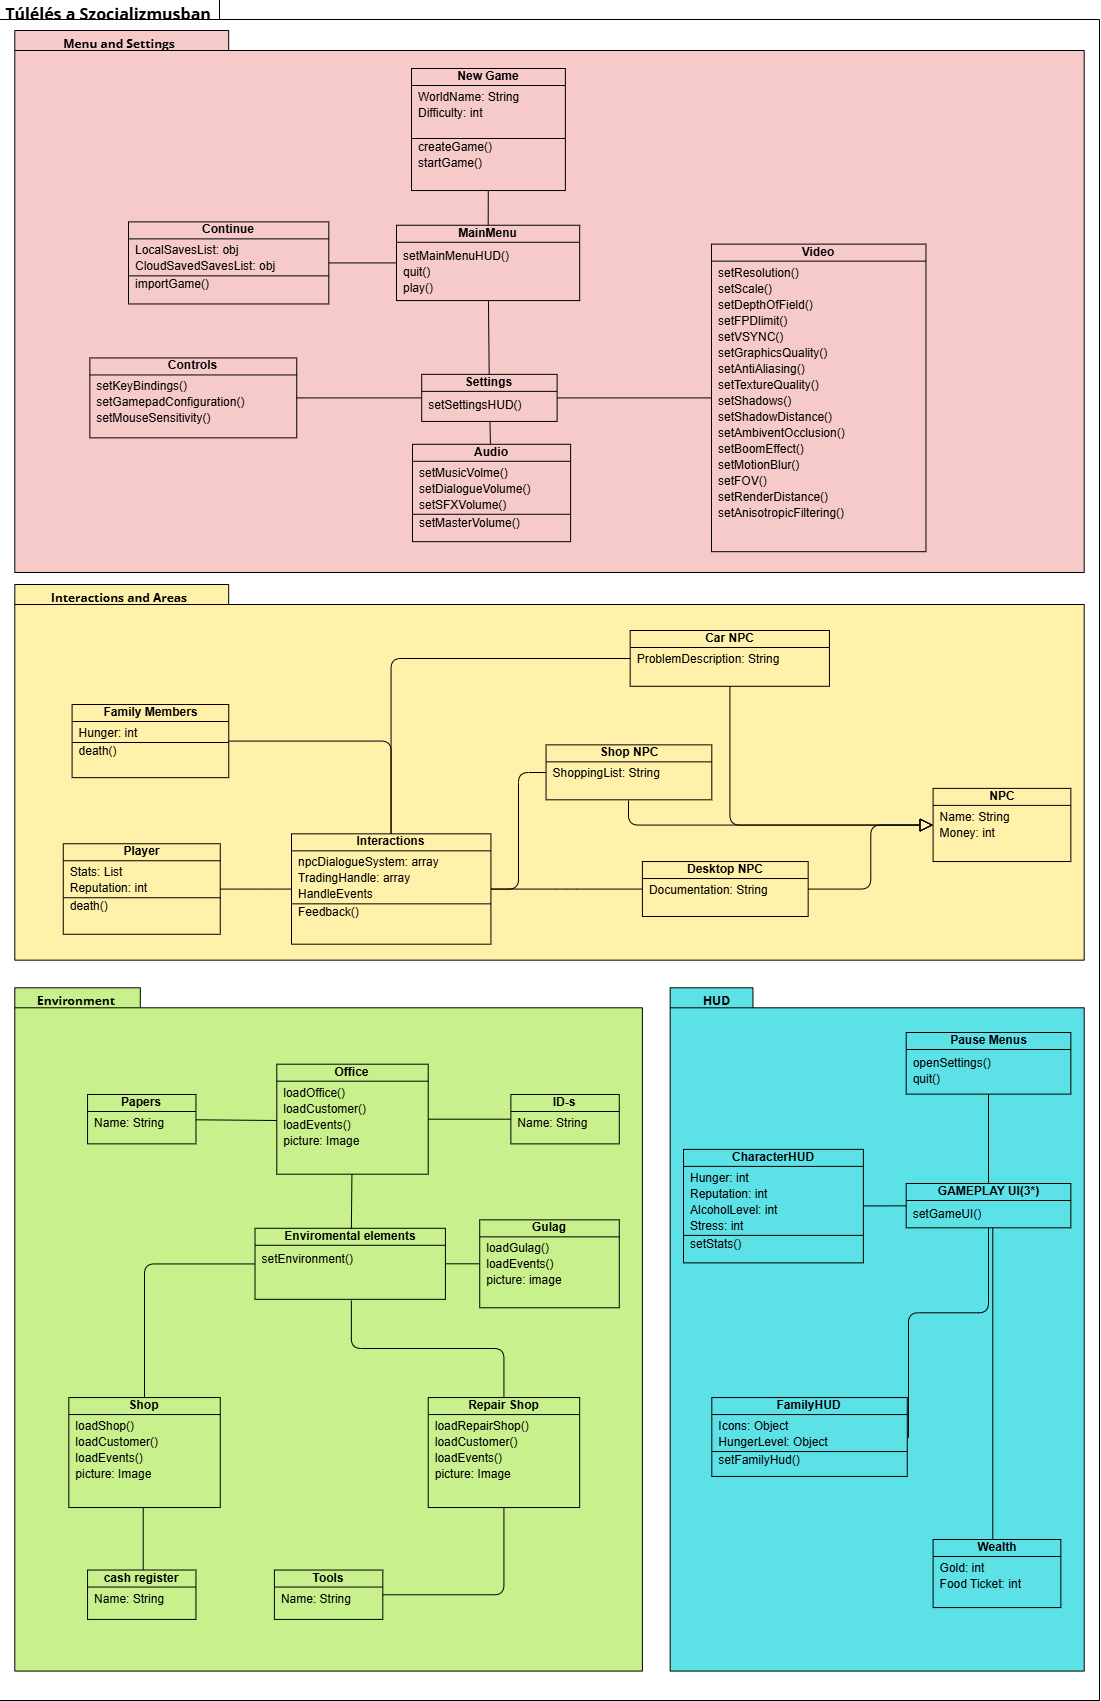
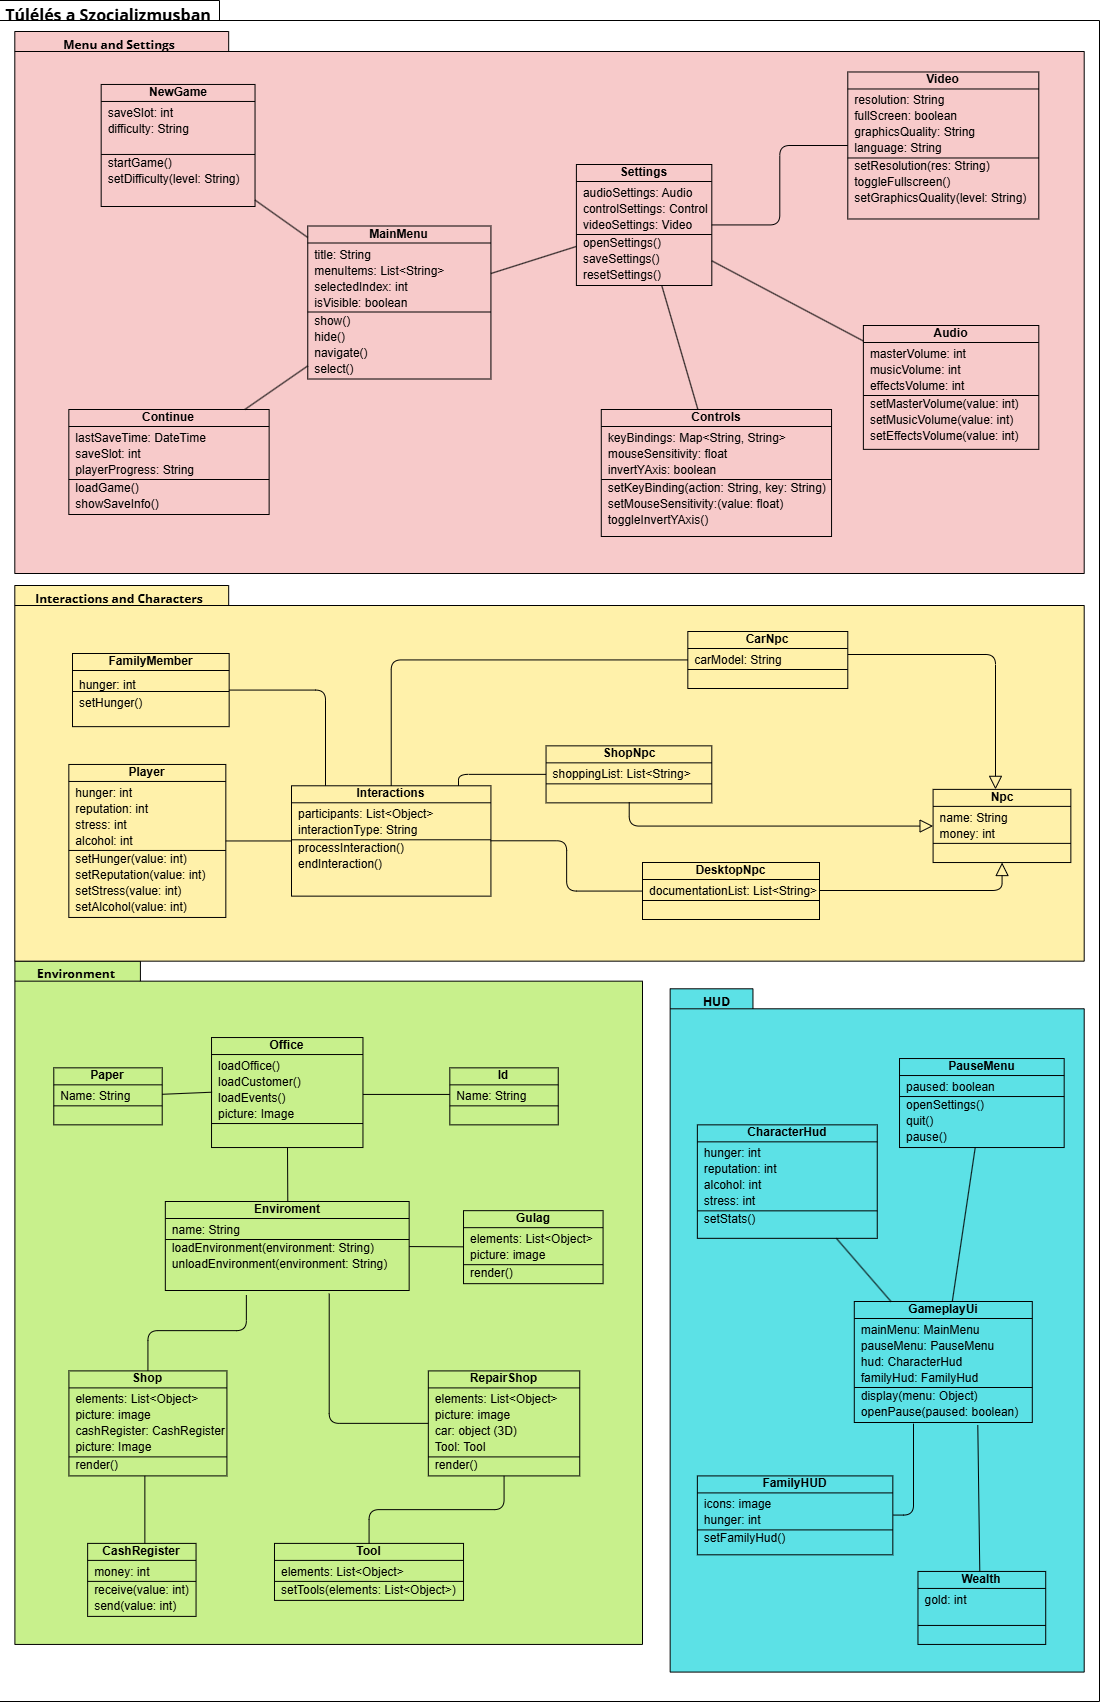
osztálydiagram tökéletesítve, egyéb szövegek átírásának kezdete

diff --git a/docs/documentation/analysismodel.md b/docs/documentation/analysismodel.md
@@ -71,14 +71,14 @@ JátékÁllapot
 
 ### Osztályok Felsorolása
 
-Main menu
+MainMenu
 
 - Az Main menu osztály a játék főmenüjét kezeli, ahol a játékos elindíthat új
   játékot, folytathat egy mentést, vagy módosíthatja a beállításokat. Tartalmazza
   a menüpontok listáját és a kiválasztott elemet. Metódusai felelősek a menü
   megjelenítéséért, a navigációért és a választás feldolgozásáért.
 
-New game
+NewGame
 
 - A New game osztály az új játék elindításáért felel, új játékállapotot hoz létre
   az alapértelmezett beállításokkal. Attribútumaiban tárolja az induló
@@ -126,7 +126,7 @@ Interactions
   aktuális interakció állapota és a résztvevő entitások szerepelnek. Metódusai az
   interakciók indításáért, folytatásáért és lezárásáért felelnek.
 
-Family members
+FamilyMember
 
 - A Family members osztály a játékbeli családtagokat reprezentálja. Attribútumai
   tartalmazzák a családtagok nevét, szerepét és kapcsolatait a játékos
@@ -140,20 +140,20 @@ Player
   tulajdonságait és aktuális helyzetét. Metódusai az irányítást, mozgást,
   interakciókat és a karakter speciális képességeit kezelik.
 
-Car NPC
+CarNpc
 
 - A Car NPC egy autóval rendelkező nem-játékos karakter, amely az autós
   közlekedést vagy egyéb, autóval kapcsolatos viselkedést modellez. Attribútumaiban
   szerepelhet az autó típusa, sebessége és helyzete. Metódusai a mozgás, navigáció
   és a játékossal való interakciók kezelését végzik.
 
-Shop NPC
+ShopNpc
 
 - A Shop NPC a boltos karaktert reprezentálja, aki árusít vagy vásárol a játékban.
   Attribútumai között szerepel az árukészlet és árak. Metódusai kezelik a
   kereskedelmi tranzakciókat, az áruk kínálatát és az árak módosítását.
 
-Desktop NPC
+DesktopNpc
 
 - A Desktop NPC olyan nem-játékos karakter, aki asztalnál dolgozik vagy a
   számítógépnél van. Attribútumai tartalmazhatják az aktuális tevékenységet és az
@@ -167,13 +167,13 @@ Office
   karakterek. Metódusai kezelik az iroda használatát és az eseményeket, amelyek
   ott történnek.
 
-IDs
+Id
 
 - Az IDs osztály azonosító kártyákat vagy dokumentumokat képvisel, melyek
   hozzáférést vagy személyazonosságot igazolnak. Attribútumai tartalmazzák az
   azonosító adatokat. Metódusai az azonosítás és hozzáférés ellenőrzését végzik.
 
-Papers
+Paper
 
 - A Papers osztály különféle dokumentumokat vagy papírokat foglal magában.
   Attribútumai a papírok tartalmát és státuszát tartalmazzák. Metódusai az olvasás,
@@ -185,20 +185,20 @@ Shop
   Attribútumaiban tárolja a készletet, az árakat és a vásárlókat. Metódusai a
   termékek kezelését, vásárlást és eladást biztosítják.
 
-Cash register
+CashRegister
 
 - A Cash register osztály a pénztárgépet képviseli, amely a fizetések
   lebonyolítását végzi. Attribútuma a tárolt pénzösszeg és a tranzakciók listája.
   Metódusai a fizetések rögzítéséért és az összeg kezeléséért felelősek.
 
-Repair shop
+RepairShop
 
 - A Repair shop egy javítóműhelyt modellez, ahol tárgyak vagy eszközök javítása
   zajlik. Attribútumai között szerepelnek a szerszámok, javítandó tárgyak és a
   munkafolyamat állapota. Metódusai a javítási folyamatok indítását, nyomon
   követését és befejezését végzik.
 
-Tools
+Tool
 
 - A Tools osztály a játékban található eszközöket képviseli, melyek különféle
   feladatokra használhatók. Attribútumaik lehetnek az eszköz típusa, állapota és
@@ -211,21 +211,21 @@ Gulag
   elemek szerepelnek. Metódusai a fogvatartás, események és menekülési lehetőségek
   kezelését végzik.
 
-CharacterHUD
+CharacterHud
 
 - A CharacterHUD a játékos karakterének állapotát jeleníti meg a képernyőn,
   például élet- és energiaértékeket. Attribútumai az aktuális állapotadatokat
   tartalmazzák. Metódusai az állapot frissítését és megjelenítését végzik valós
   időben.
 
-Pause menus
+PauseMenu
 
 - A Pause menus osztály a játék szüneteltetési menüit kezeli, amelyek megállítják
   a játékot és különböző opciókat kínálnak. Attribútumai a menüpontokat és azok
   állapotát tartalmazzák. Metódusai a menü megjelenítéséért, navigációjáért és
   bezárásáért felelnek.
 
-FamilyHUD
+FamilyHud
 
 - A FamilyHUD a családtagok állapotának kijelzését végzi, segítve a játékost a
   családi kapcsolatok nyomon követésében. Attribútumaiban a családtagok állapotai
@@ -245,28 +245,27 @@ Wealth
 Ez az alrendszer kezeli a játék fő- és beállítási menüit, a szünet menüt és a
 beállításokat.
 
-- Main menu
-- New game
+- MainMenu
+- NewGame
 - Continue
 - Settings
 - Controls
 - Audio
 - Video
-- Pause menus
 
-#### Interakciók és karakterek
+#### Interakciók és Karakterek
 
 Ebben az alrendszerben vannak a játékos és NPC-k, valamint az egymással való
 interakciók.
 
 - Interactions
-- Family members
+- FamilyMember
 - Player
-- Car NPC
-- Shop NPC
-- Desktop NPC
+- CarNpc
+- ShopNpc
+- DesktopNpc
 
-#### Környezet és helyszínek
+#### Környezet
 
 Ez az alrendszer az egyes helyszíneket és környezeti elemeket kezeli.
 
